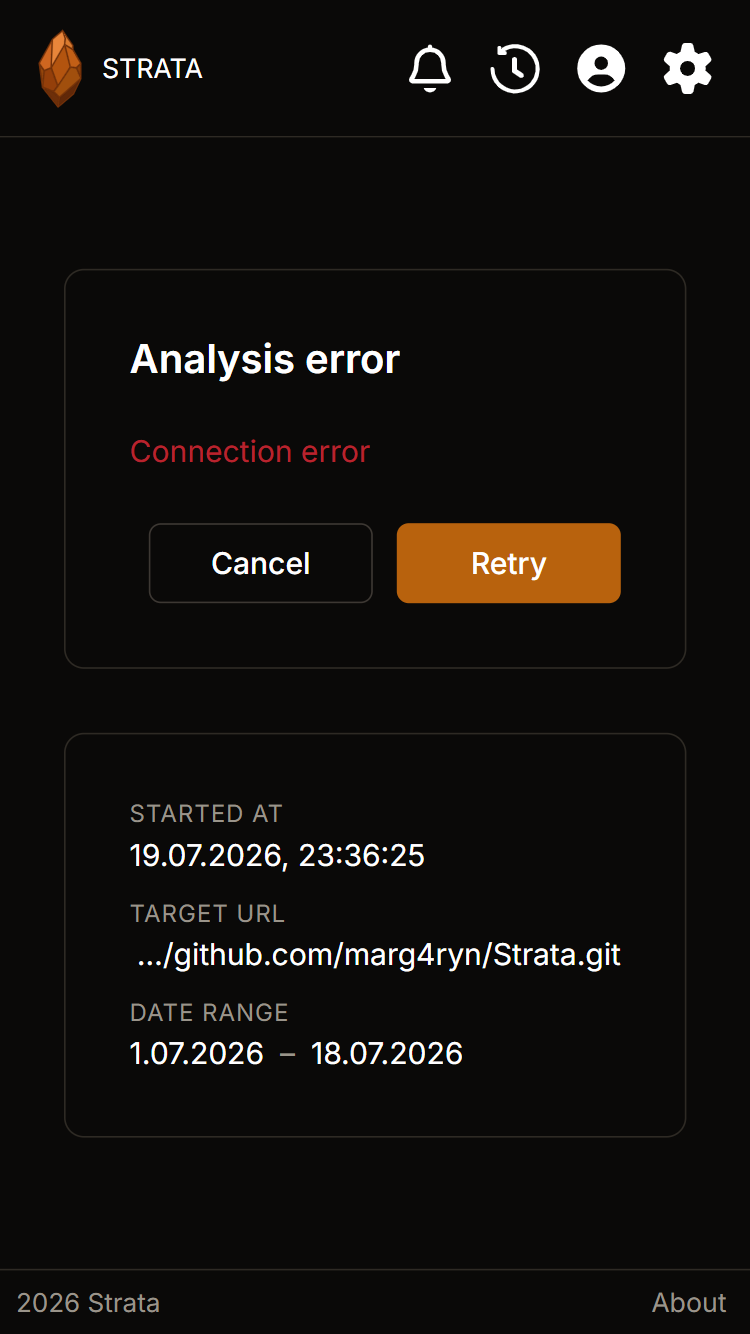
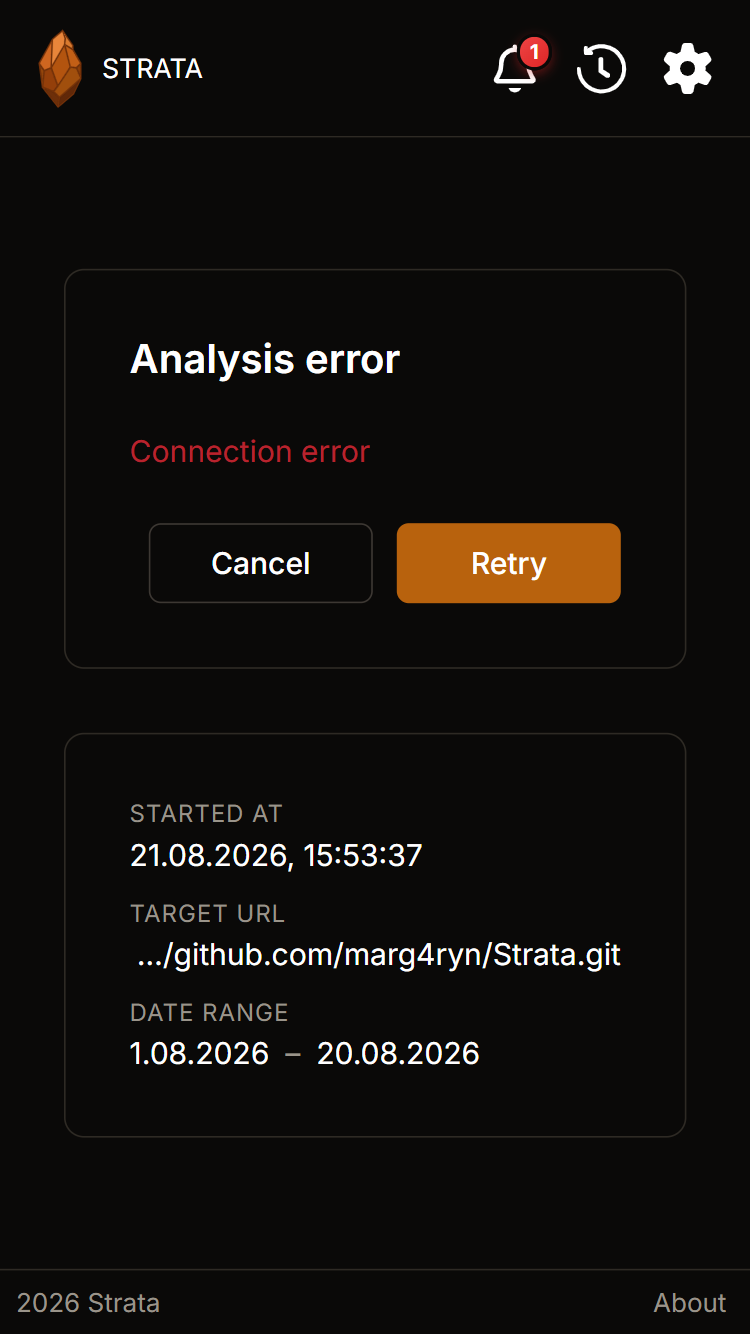
docs: update README.md

diff --git a/README.md b/README.md
@@ -25,4 +25,26 @@ If an error occurs or the WebSocket connection is interrupted, the application a
 
 | Target Form | Loading Screen | Analysis Error | Unfinished Analysis |
 |:---:|:---:|:---:|:---:|
-| <img src="./docs/analysis-run/screens/target_form.png" width="200"/> | <img src="./docs/analysis-run/screens/loading_screen.png" width="200"/> | <img src="./docs/analysis-run/screens/analysis_error.png" width="200"/> | <img src="./docs/analysis-run/screens/unfinished_analysis.png" width="200"/> |
+| <img src="./docs/analysis-run/screens/target_form.png" width="152"/> | <img src="./docs/analysis-run/screens/loading_screen.png" width="152"/> | <img src="./docs/analysis-run/screens/analysis_error.png" width="152"/> | <img src="./docs/analysis-run/screens/unfinished_analysis.png" width="152"/> |
+
+
+### Additional Features
+
+Users can access several application panels directly from the header. All panels are implemented using Angular CDK Overlay, which keeps them independent from the main application layout while providing consistent behavior and accessibility.
+
+Important actions trigger notifications that inform users about the result of an operation. Notifications indicate the message type (`success`, `info`, `warn`, or `error`) and the number of unread notifications is displayed in the application header (see the **Notifications** below).
+
+Each successfully completed analysis is added to the analysis history. Users can open a previous entry to load its results without having to run the analysis again (see the **Analysis History** below).
+
+The settings panel allows users to change the application language between English and Polish. Translations are handled at runtime using Transloco, allowing the language to be changed without reloading the application (see the **Settings** below).
+
+| Notifications | Analysis History | Settings |
+|:---:|:---:|:---:|
+| <img src="./docs/common/notifications.png" width="220"/> | <img src="./docs/common/analysis_history.png" width="220"/> | <img src="./docs/common/settings.png" width="220"/> |
+
+
+Users interested in the application can visit the About page, accessible from the footer of the interface. It presents the development team behind the project and the technology stack used to build the system, and it also documents the tool’s limitations to help users better understand Strata’s purpose and scope (see the **About** below).
+
+| About |
+|:---:|
+| <img src="./docs/common/about.png" width="700"/> |
